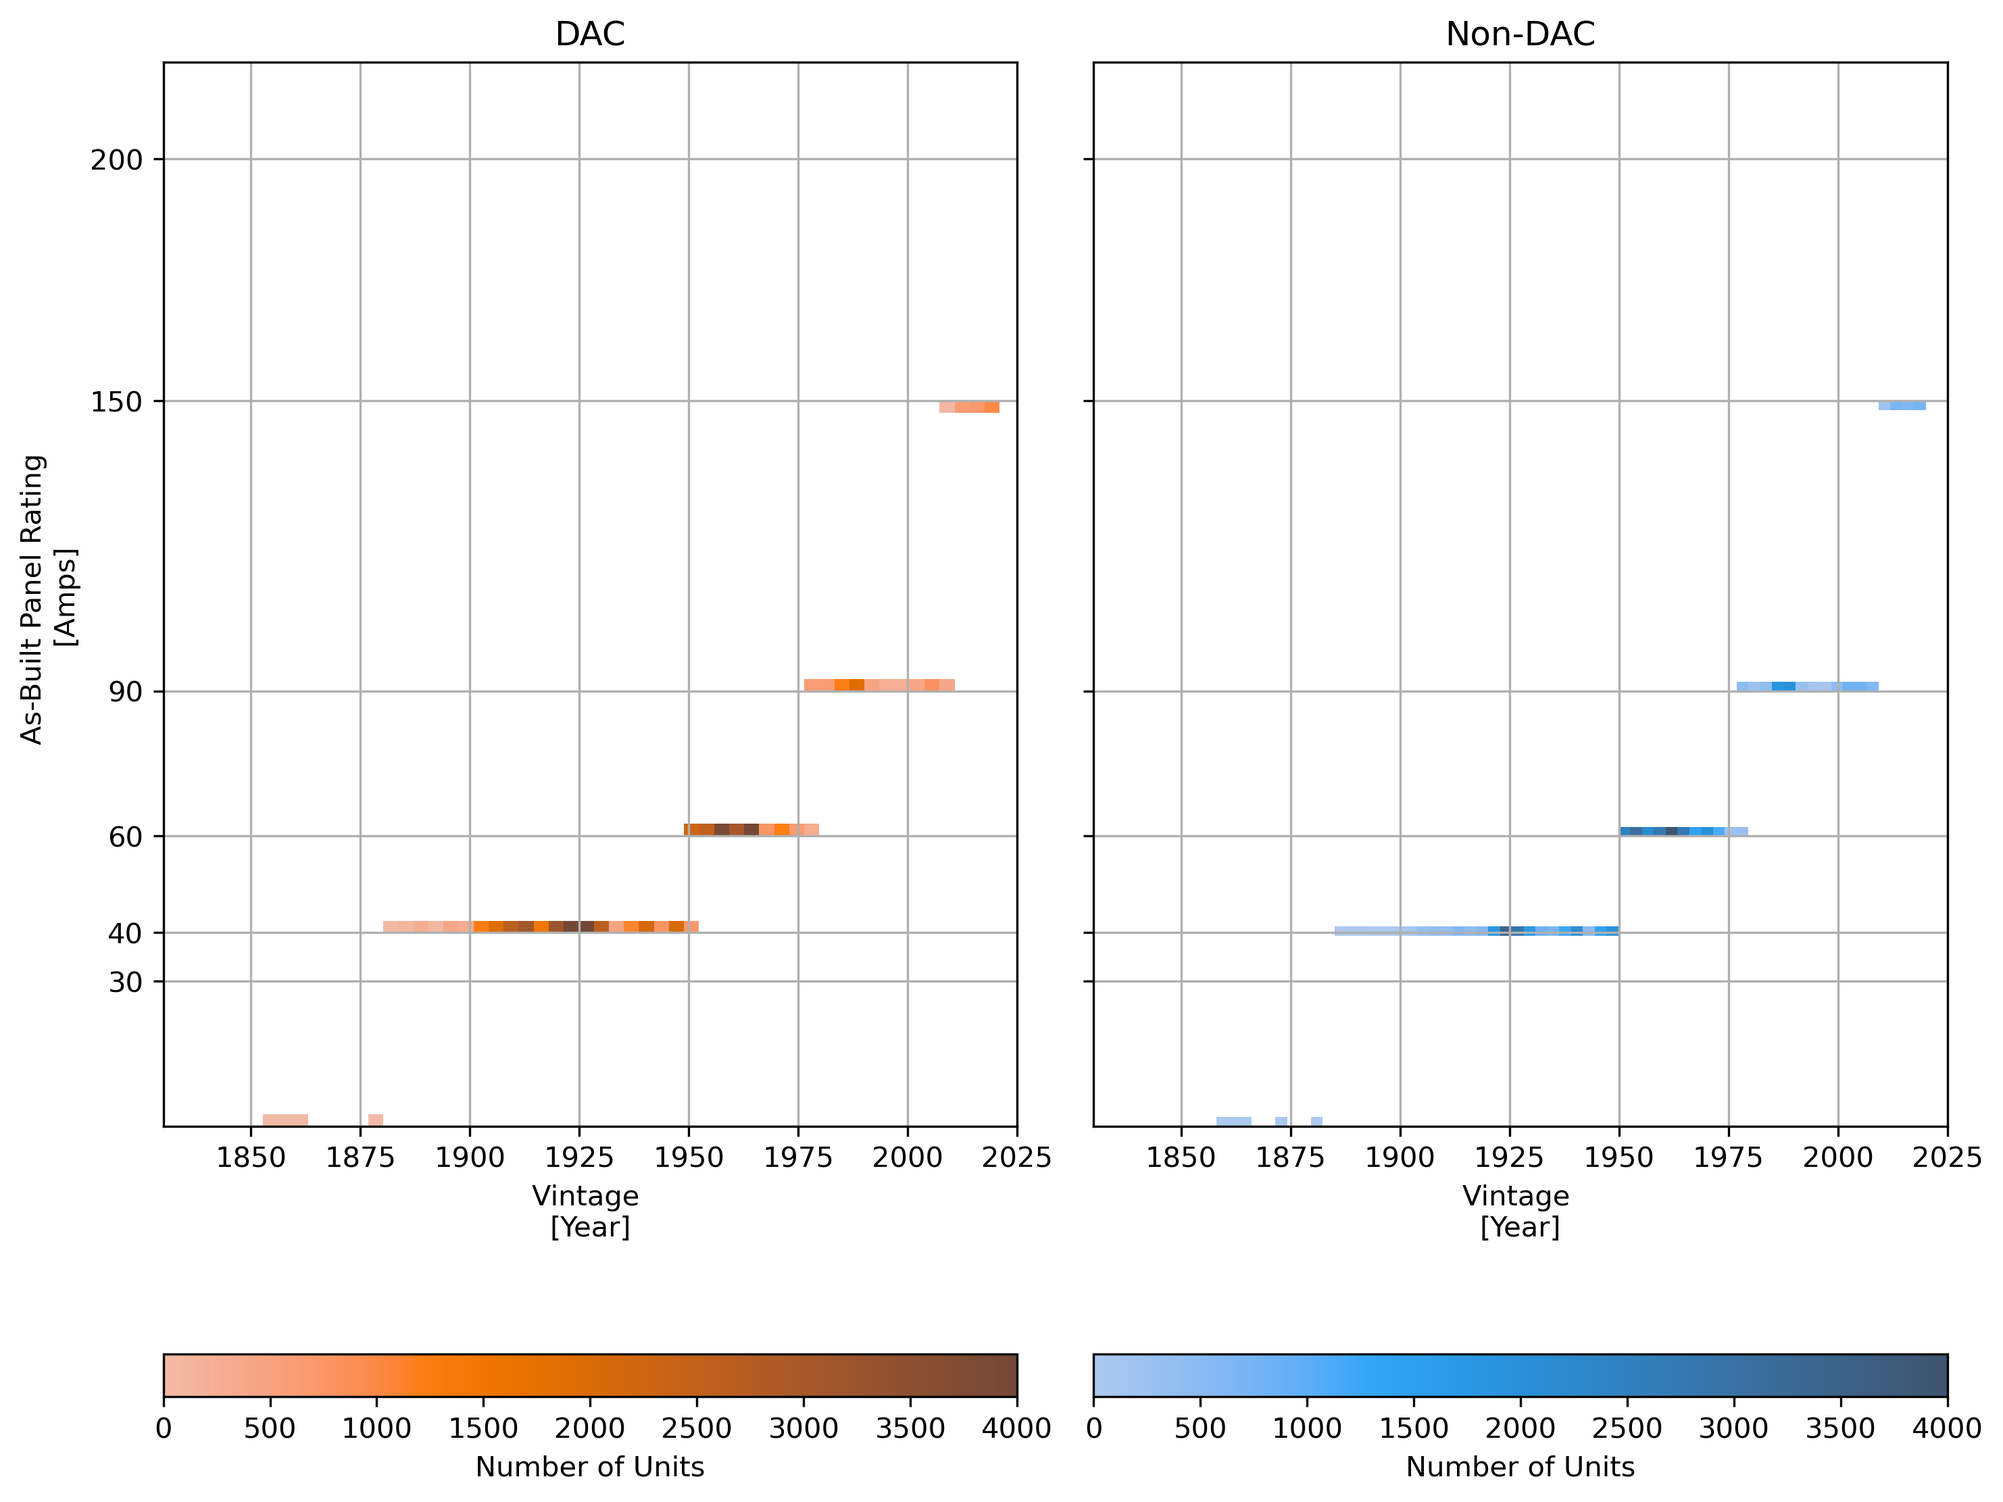
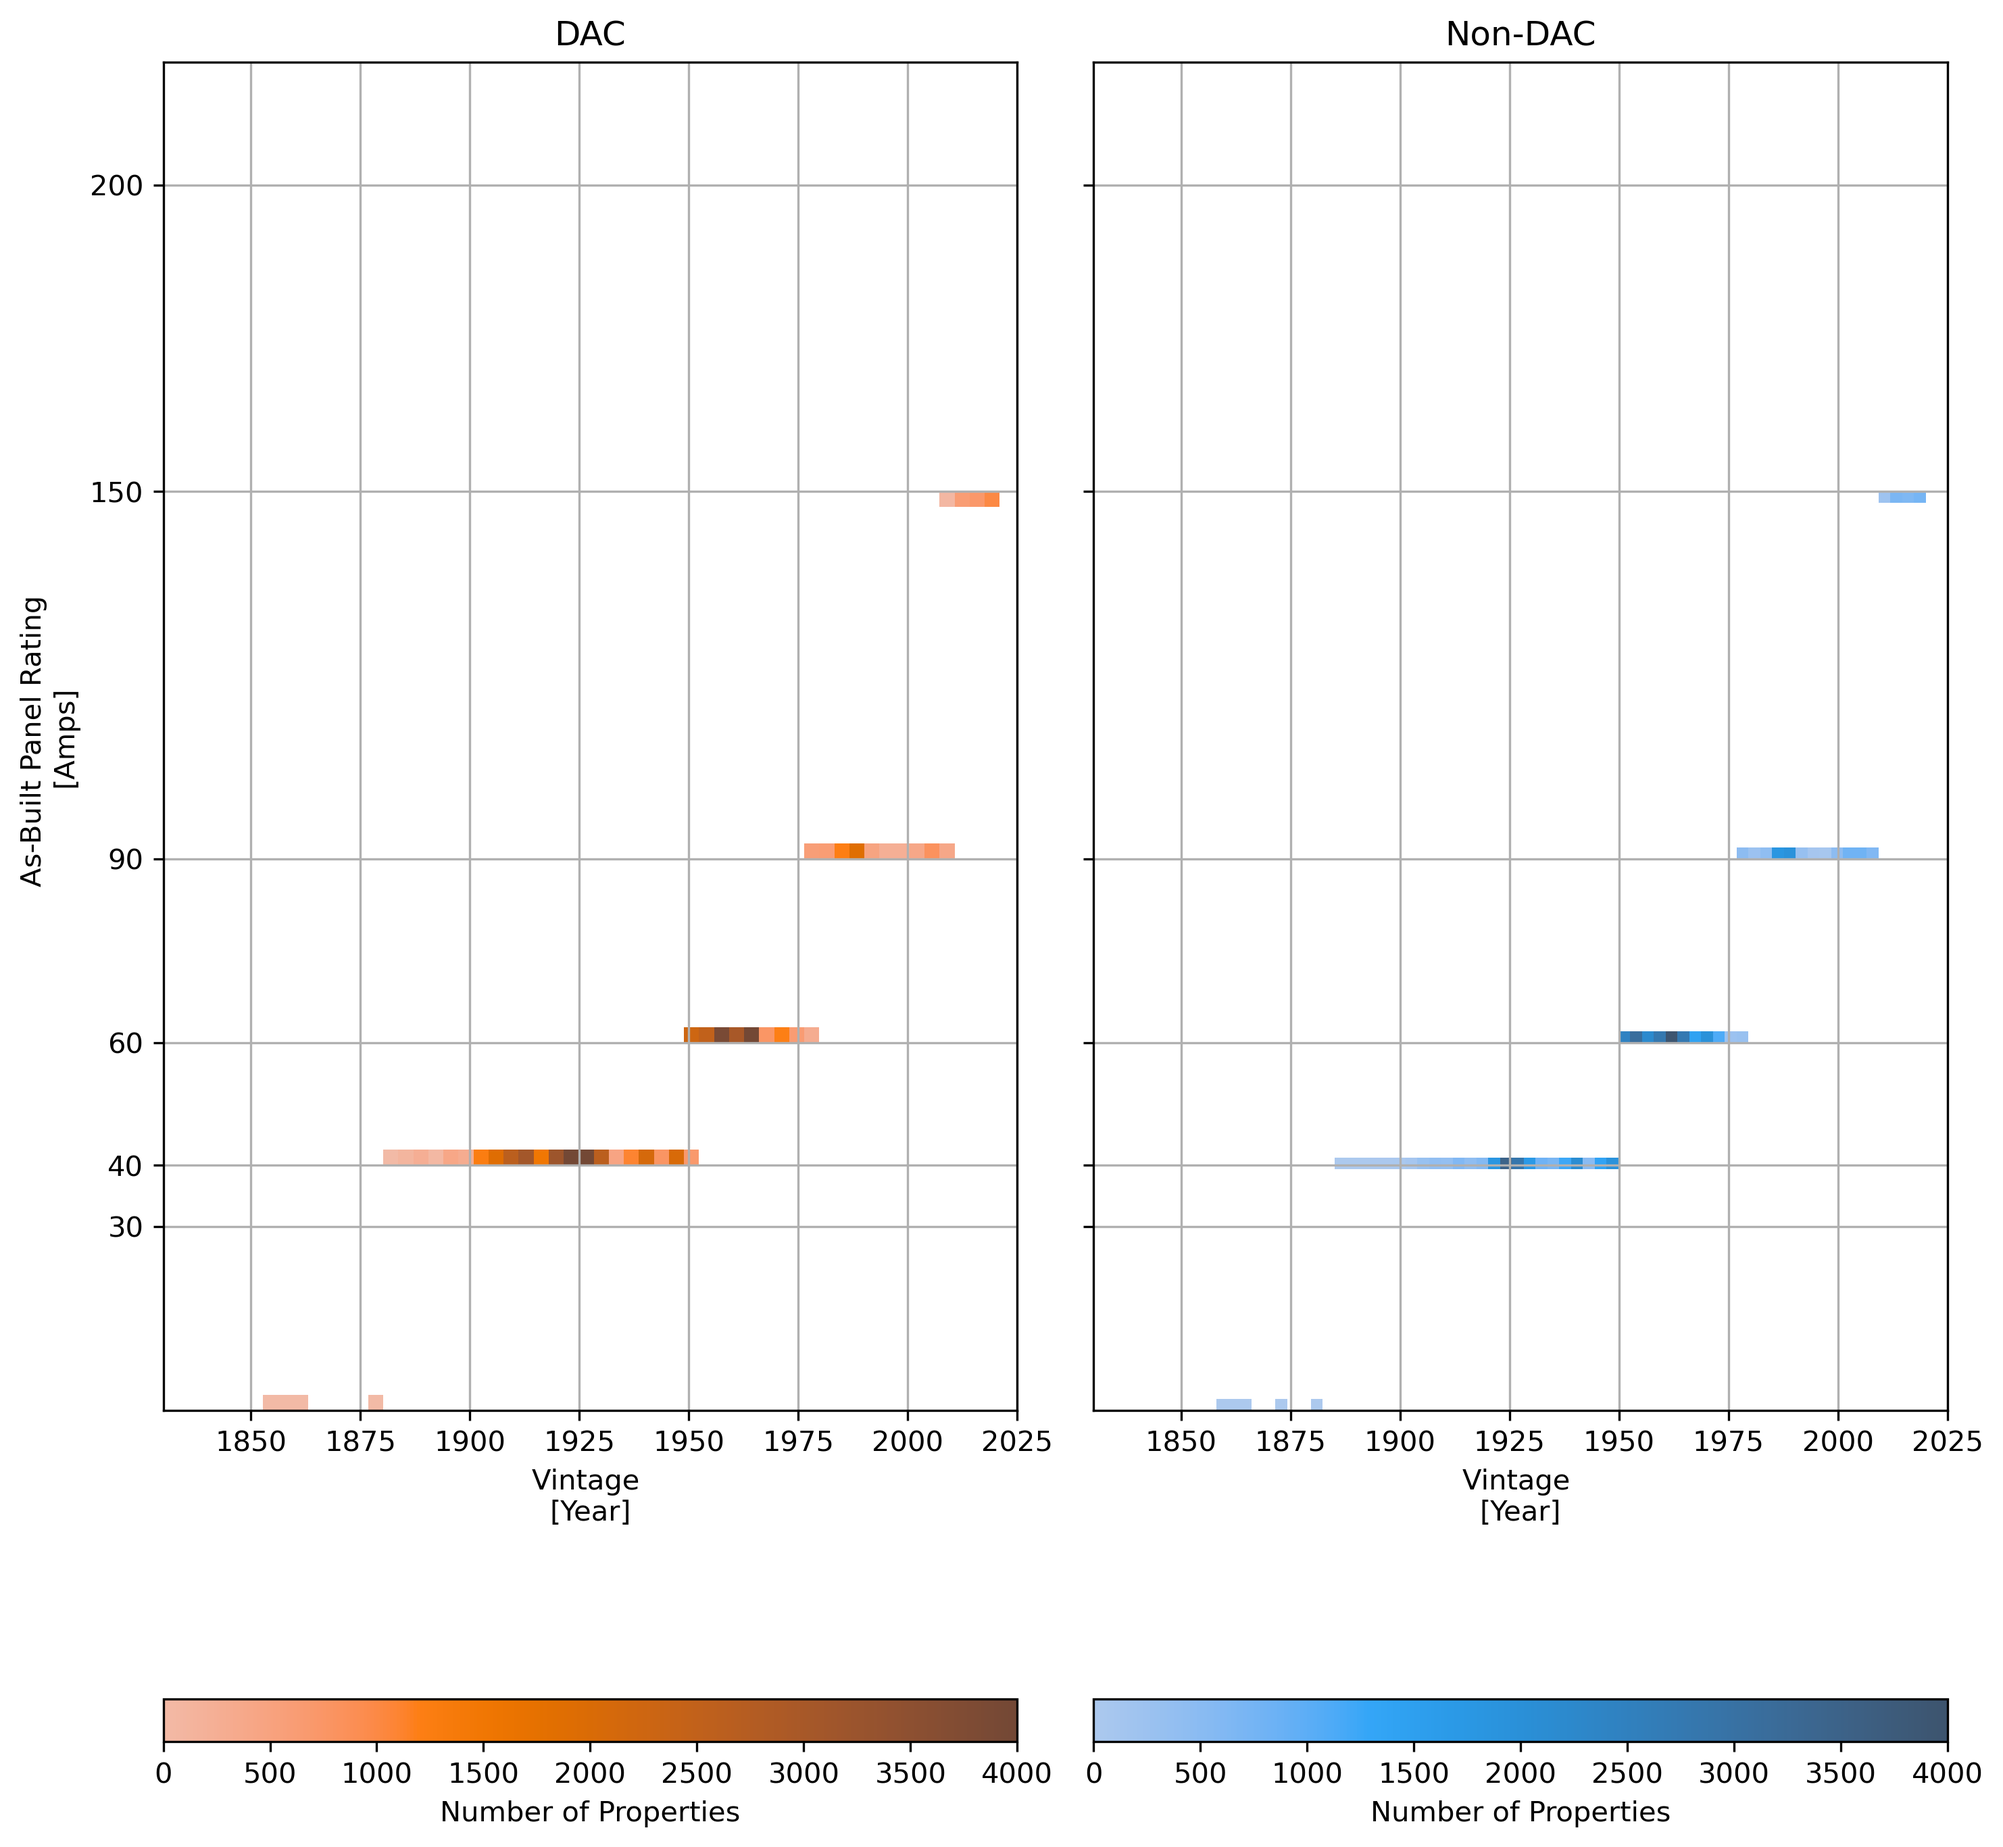
Continue adding multi-sector plot support

diff --git a/pu/pkg/plot.py b/pu/pkg/plot.py
@@ -122,7 +122,7 @@ def AsBuiltPanelRatingsHist(buildings_ces, ces4, ladwp, sector, figure_dir):
         legend = True,
         label = 'DAC',
         cbar = True,
-        cbar_kws = {'label':'Number of Units', 'orientation':'horizontal'},
+        cbar_kws = {'label':'Number of Properties', 'orientation':'horizontal'},
         vmin=0, vmax=4000)
     sns.histplot(x = 'year_built_int',
         y = 'panel_size_as_built',
@@ -133,7 +133,7 @@ def AsBuiltPanelRatingsHist(buildings_ces, ces4, ladwp, sector, figure_dir):
         legend = True,
         label = 'Non-DAC',
         cbar = True,
-        cbar_kws = {'label':'Number of Units', 'orientation':'horizontal'},
+        cbar_kws = {'label':'Number of Properties', 'orientation':'horizontal'},
         vmin=0, vmax=4000)
 
     if sector == 'single_family':
@@ -172,7 +172,7 @@ def AsBuiltPanelRatingsHist(buildings_ces, ces4, ladwp, sector, figure_dir):
 
 #%% Plot As-Built Panel Stats
 
-def AsBuiltPanelRatingsBar(buildings_ces, figure_dir):
+def AsBuiltPanelRatingsBar(buildings_ces, sector, figure_dir):
     '''Simple barplot of as-built panel ratings separated by DAC status'''
 
     # Compute counts
@@ -190,7 +190,7 @@ def AsBuiltPanelRatingsBar(buildings_ces, figure_dir):
 
     ax.grid(True)
     ax.set_ylabel('As-Built Panel Rating \n[Amps]')
-    ax.set_xlabel('Number of Units')
+    ax.set_xlabel('Number of Properties')
     plt.xticks(rotation = 45)
 
     ax.xaxis.set_major_formatter(StrMethodFormatter('{x:,.0f}'))
@@ -198,11 +198,11 @@ def AsBuiltPanelRatingsBar(buildings_ces, figure_dir):
     fig.patch.set_facecolor('white')
     fig.tight_layout()
 
-    fig.savefig(figure_dir + 'ladwp_as_built_panel_ratings_barchart.png', bbox_inches = 'tight', dpi = 300)
+    fig.savefig(figure_dir + 'ladwp_{}_as_built_panel_ratings_barchart.png'.format(sector), bbox_inches = 'tight', dpi = 300)
 
     return
 
-def PermitTimeSeries(buildings_ces, figure_dir):
+def PermitTimeSeries(buildings_ces, sector, figure_dir):
     '''Plot annual total and cumulative total panel upgrade permits
     separated by DAC status'''
 
@@ -240,7 +240,6 @@ def PermitTimeSeries(buildings_ces, figure_dir):
     print('\n')
     print('Non-DAC Average Annual Permit Counts: {}'.format(permit_cs.loc[dac_vals,'permit_count'].mean()))
     print('Non-DAC Average Annual Rates of Change: {}'.format(permit_cs.loc[non_dac_vals,'permit_count'].pct_change().mean()))
-
 
     # Plot Time Series of Permit Counts and Cumulative Sums
 
@@ -298,13 +297,13 @@ def PermitTimeSeries(buildings_ces, figure_dir):
     fig.patch.set_facecolor('white')
     fig.tight_layout()
 
-    fig.savefig(figure_dir + 'ladwp_permit_time_series_plot.png', bbox_inches = 'tight', dpi = 300)
+    fig.savefig(figure_dir + 'ladwp_{}_permit_time_series_plot.png'.format(sector), bbox_inches = 'tight', dpi = 300)
 
     return
 
 #%% Function to Map the Cumulative Total Number of Permits by Tract
 
-def PermitCountsMap(buildings_ces, ces4, ladwp, figure_dir):
+def PermitCountsMap(buildings_ces, ces4, ladwp, sector, figure_dir):
     '''Function to map the cumulative total number of buildings with
     panel upgrade pemits by census tract and DAC status'''
 
@@ -328,16 +327,25 @@ def PermitCountsMap(buildings_ces, ces4, ladwp, figure_dir):
     ces4.loc[non_dac_ind].boundary.plot(ax = ax, color = 'tab:blue', linewidth = 0.5)
     ladwp.boundary.plot(ax = ax, edgecolor = 'black', linewidth = 1.5)
 
+    if sector == 'single_family':
+        title = 'Single Family Properties\nPermitted Panel Upgrades\n[Counts]\n'
+        bins = [100,250,500,750,1000,1500,2000]
+        labels = ["1-100", "100-250", "250-500", "500-750","750-1000", "1000-1500", "1500-2000","2000+"]
+    elif sector == 'multi_family':
+        title = 'Multi-Family Properties\nPermitted Panel Upgrades\n[Counts]\n'
+        bins = [100,250,500,750,1000,1500,2000]
+        labels = ["1-100", "100-250", "250-500", "500-750","750-1000", "1000-1500", "1500+"]
+
     permits_per_tract_ces.plot(ax = ax,
         column = 'apn',
         k = 7,
         cmap = 'bone_r',
         scheme = 'user_defined',
-        classification_kwds = {'bins' : [100,250,500,750,1000,1500,2000]},
+        classification_kwds = {'bins' : bins},
         legend = True,
-        legend_kwds = {'title': 'Single Family Homes\nPermitted Panel Upgrades\n[Counts]\n',
+        legend_kwds = {'title': title,
                         'loc': 'lower left',
-                        "labels": ["1-100", "100-250", "250-500", "500-750","750-1000", "1000-1500", "1500-2000","2000-3160"]})
+                        "labels": labels})
 
     ax.set_ylim((-480000,-405000))
     ax.set_xlim((120000,170000))
@@ -346,7 +354,7 @@ def PermitCountsMap(buildings_ces, ces4, ladwp, figure_dir):
     fig.patch.set_facecolor('white')
     fig.tight_layout()
 
-    fig.savefig(figure_dir + 'ladwp_permit_geographic_distribution_map.png', bbox_inches = 'tight', dpi = 300)
+    fig.savefig(figure_dir + 'ladwp_{}_permit_geographic_distribution_map.png'.format(sector), bbox_inches = 'tight', dpi = 300)
 
     return
 

diff --git a/pu/main/mf_service_panel_upgrades.py b/pu/main/mf_service_panel_upgrades.py
@@ -39,12 +39,14 @@ plot.CountsMap(mf_buildings, ces4, ladwp, sector, figure_dir)
 plot.AsBuiltPanelRatingsMap(mf_buildings_ces, ces4, ladwp, sector, figure_dir)
 plot.AsBuiltPanelRatingsHist(mf_buildings_ces, ces4, ladwp, sector, figure_dir)
 plot.JointDistributionPlot(mf_buildings_ces, sector, figure_dir)
+plot.AsBuiltPanelRatingsBar(mf_buildings_ces, sector, figure_dir)
+plot.PermitTimeSeries(mf_buildings_ces, sector, figure_dir)
+plot.PermitCountsMap(mf_buildings_ces, ces4, ladwp, sector, figure_dir)
+plot.PermitCountsHistAnimation(mf_buildings_ces, figure_dir)
+
+#TODO: Continue to modify plot functions below for multi-sector support
 
 #%%
-plot.AsBuiltPanelRatingsBar(mf_buildings_ces, figure_dir)
-plot.PermitTimeSeries(mf_buildings_ces, figure_dir)
-plot.PermitCountsMap(mf_buildings_ces, ces4, ladwp, figure_dir)
-plot.PermitCountsHistAnimation(mf_buildings_ces, figure_dir)
 plot.PermitVintageYearECDF(mf_buildings_ces, figure_dir)
 plot.ExistingPanelRatingsChangeCountsBar(panel_stats_ces_geo, figure_dir)
 plot.ExistingPanelRatingsChangeAmpsBox(panel_stats_ces_geo, figure_dir)
